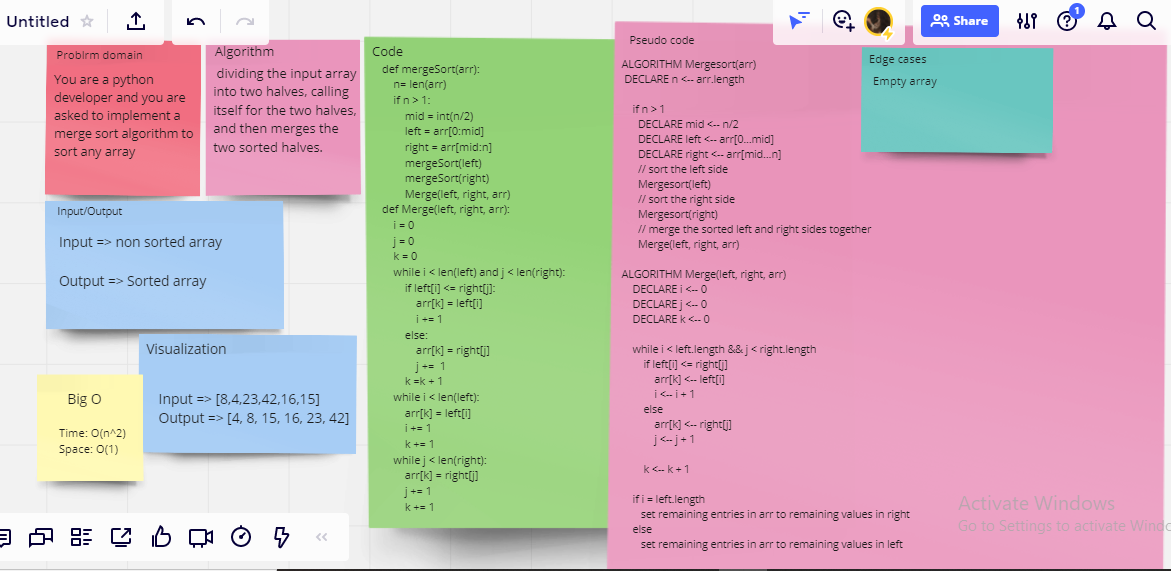
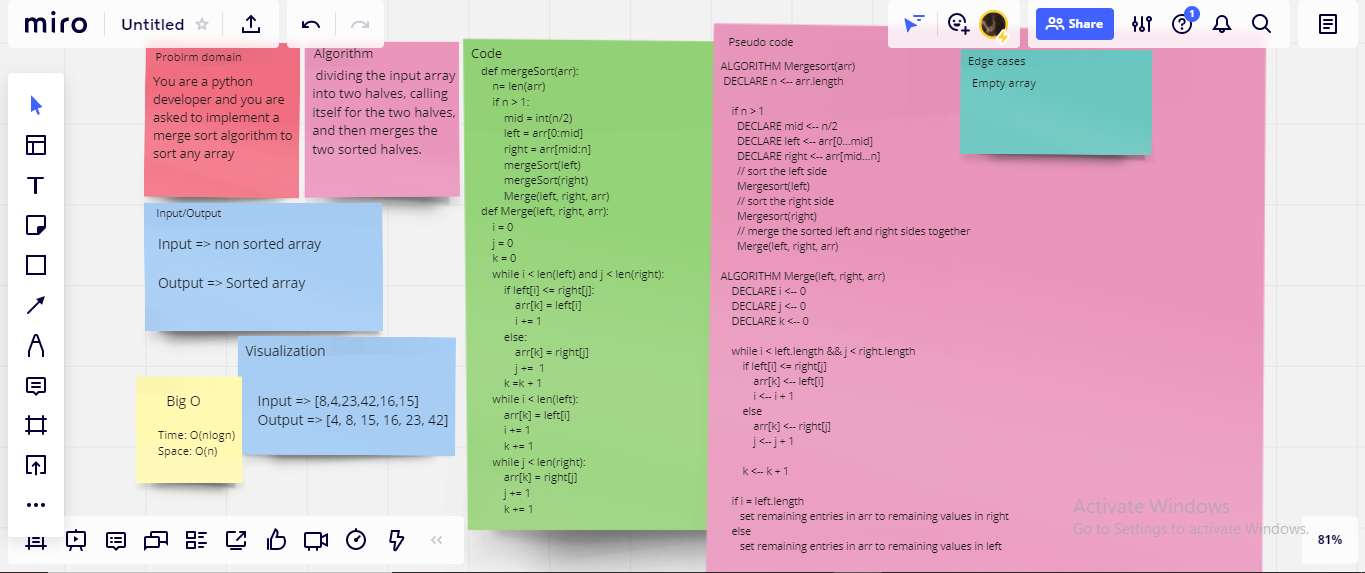
mergesort

diff --git a/merge-sort/README.md b/merge-sort/README.md
@@ -12,8 +12,8 @@ Implementing merge sort algorithm
 
 dividing the input array into two halves, calling itself for the two halves, and then merges the two sorted halves.
 
-Time: O(n^2)
-Space: O(1)
+Time: O(nlogn)
+Space: O(n)
 
 ## Solution
 

diff --git a/merge-sort/BLOG.md b/merge-sort/BLOG.md
@@ -79,6 +79,6 @@ Merge L [2, 4, 5, 32] and R [1, 12, 17, 18] to get
 
 Big(O)
 
-Time: O(n^2)
+Time: O(nlogn)
 
-Space: O(1)
+Space: O(n)
